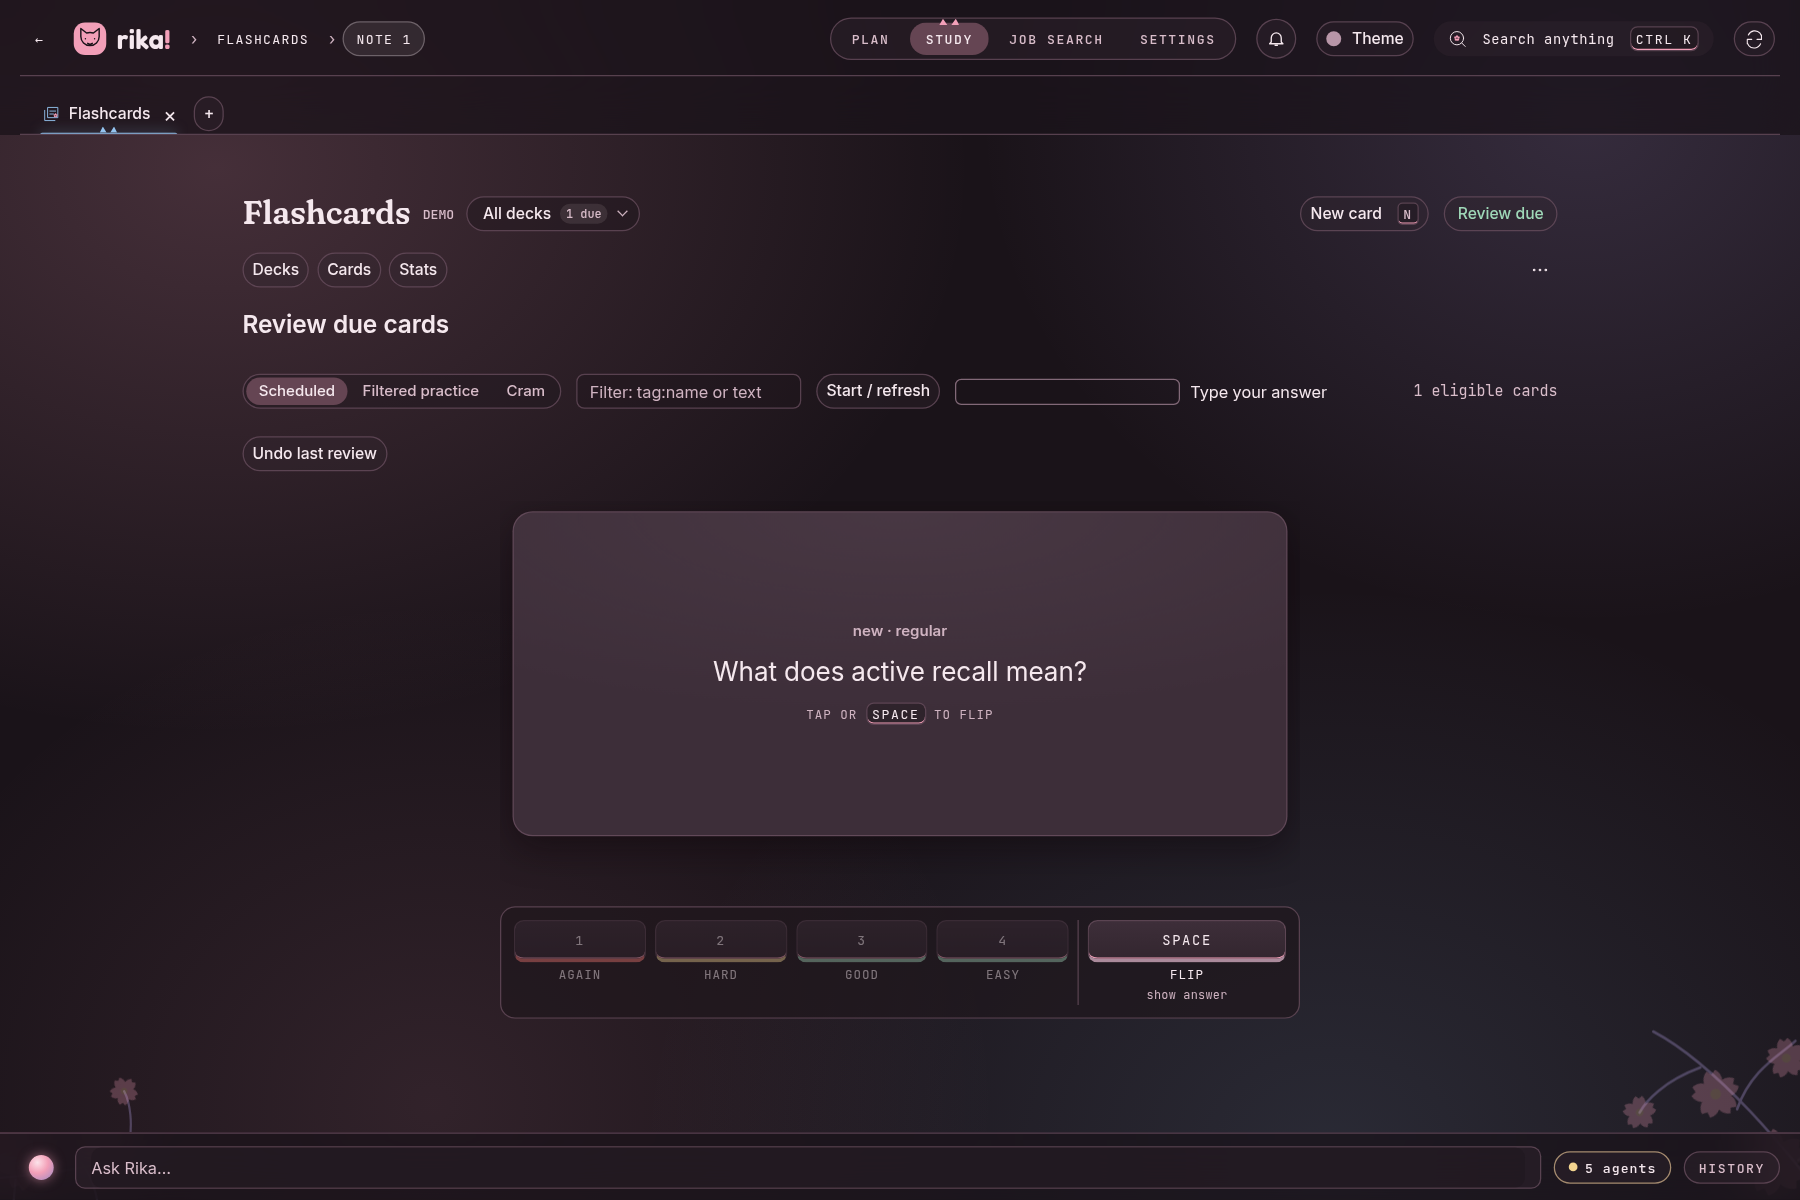
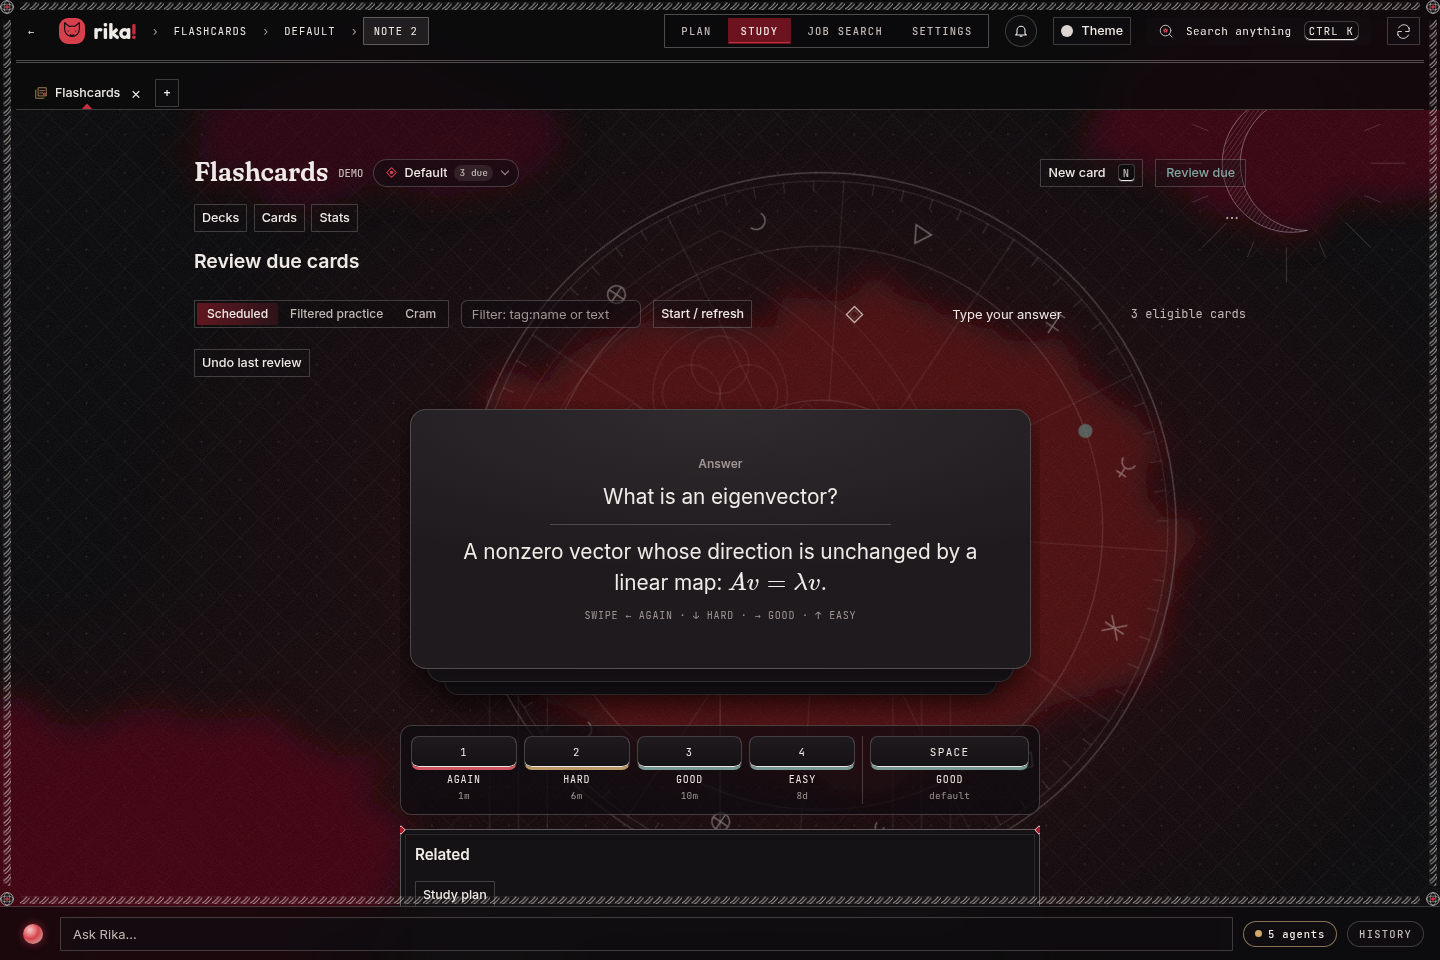
Expand v0.3.30 feature tour in the c theme

diff --git a/README.md b/README.md
@@ -8,28 +8,132 @@ Your workspace is stored separately from the application and retained across upd
 
 ## Screenshots
 
-These screenshots show rika! v0.3.30 and use synthetic sample data only.
+These screenshots show rika! v0.3.30 in the **c** theme and use synthetic sample data only.
 
-**Home:** the interactive workspace brain links every section, with a searchable section list and side widgets.
+**Welcome:** a short first-run screen; continue locally, or connect Google only if you want to.
+
+![rika! welcome screen](docs/screenshots/welcome.png)
+
+**Home:** the interactive workspace brain links every section, with a searchable section list and side widgets for today, quick notes, agents and what is up next.
 
 ![rika! home workspace brain](docs/screenshots/home.png)
 
-**Find jobs:** search, filter and sort job listings, then prepare selected applications for review.
+**Brain view:** change the brain's layout, grouping, labels, motion, background and section colours.
 
-![rika! Find jobs list](docs/screenshots/find-jobs.png)
+![rika! brain view settings](docs/screenshots/brain-view.png)
 
-**Notes:** notebook pages with block editing, canvas and map views, and `[[page]]` links.
+**2D map:** the same workspace as a flat map of every section and how they connect.
+
+![rika! 2D workspace map](docs/screenshots/home-2d.png)
+
+**Search anything:** Ctrl+K finds pages, jobs and commands, such as a new card, map or job.
+
+![rika! command palette](docs/screenshots/command-palette.png)
+
+**Rika:** rika!'s own assistant. Ask in the Rika bar, undo its changes, and follow coding agents in the history panel.
+
+![rika! Rika history and agents](docs/screenshots/rika-agents.png)
+
+**Calendar:** day, week, month, agenda, year and day-plan views, with natural-language quick add.
+
+![rika! Calendar week view](docs/screenshots/calendar.png)
+
+**Reminders:** follow-ups and reminders, with quick dates, snooze and delete.
+
+![rika! Reminders and follow-ups](docs/screenshots/reminders.png)
+
+**Study:** a focus timer with drawers for subjects and tasks, the current guide step and session notes.
+
+![rika! Study focus timer](docs/screenshots/study.png)
+
+**Study guide:** a fourteen-step guide for preparing, studying, and reviewing and returning to the material.
+
+![rika! Study guide](docs/screenshots/study-guide.png)
+
+**Exams & plans:** exam countdowns, planned study blocks on a timeline, and spaced returns.
+
+![rika! Exams and study plans](docs/screenshots/exams-plans.png)
+
+**Study progress:** study minutes by day and subject, a streak ring, a month calendar and goals.
+
+![rika! Study progress](docs/screenshots/study-progress.png)
+
+**Math topics:** a topic graph that shows what is locked, ready, being learned or mastered.
+
+![rika! Math topic graph](docs/screenshots/math-topics.png)
+
+**Math lessons:** a worked example, then guided steps, then problems on your own.
+
+![rika! Math lesson](docs/screenshots/math-lesson.png)
+
+**Math sprint:** timed mental-math runs inside a countdown ring.
+
+![rika! Math sprint](docs/screenshots/math-sprint.png)
+
+**Flashcards:** FSRS-scheduled review with typeset math; flip a card, then grade it by key or swipe.
+
+![rika! Flashcard review](docs/screenshots/flashcards.png)
+
+**Card browser:** filter cards and see each card's preview, memory state and recent reviews.
+
+![rika! Flashcard card browser](docs/screenshots/flashcard-cards.png)
+
+**Flashcard stats:** today's queue, a 30-day forecast, card maturity and a review heatmap.
+
+![rika! Flashcard statistics](docs/screenshots/flashcard-stats.png)
+
+**Notes:** notebook pages with block editing, an "On this page" outline, tags and `[[page]]` links.
 
 ![rika! Notes editor](docs/screenshots/notes.png)
+
+**Canvas:** draw on any page with pen, highlighter, text and sticky notes.
+
+![rika! Notes canvas](docs/screenshots/canvas.png)
 
 **Quick notes:** a board of tinted scratch notes that can be pinned or popped out.
 
 ![rika! Quick notes board](docs/screenshots/quick-notes.png)
 
-**Flashcards:** decks with scheduled review.
+**Mind maps:** start from a template, then build, recolour, connect and rearrange topics from the keyboard, mouse or pen.
 
-![rika! Flashcard review](docs/screenshots/flashcards.png)
+![rika! Mind map editor](docs/screenshots/mind-maps.png)
 
-**Themes:** pick a color theme from the toolbar; Tokyo Night is shown here.
+**Documents & PDF:** Markdown or rich text with a live preview; export a PDF or turn it into a note page.
 
-![rika! Theme picker](docs/screenshots/themes.png)
+![rika! Documents editor](docs/screenshots/documents.png)
+
+**Opportunities & projects:** a map and list of projects and opportunities, with filters and quick add.
+
+![rika! Opportunities map](docs/screenshots/opportunities.png)
+
+**Find jobs:** search, filter and sort job listings, then prepare selected applications for review.
+
+![rika! Find jobs list](docs/screenshots/find-jobs.png)
+
+**Jobs map:** jobs grouped by job type; open a group to see every matching job.
+
+![rika! Jobs map](docs/screenshots/jobs-map.png)
+
+**Applications:** a pipeline from applied to closed for each job type, with days since the last activity.
+
+![rika! Applications pipeline](docs/screenshots/applications.png)
+
+**Mail proposals:** read-only Gmail checks suggest status changes, and only your confirmation moves an application.
+
+![rika! Gmail status proposals](docs/screenshots/gmail-proposals.png)
+
+**AI settings:** your own OpenRouter key, model, routing and daily spending cap, with each request reviewed before it is sent.
+
+![rika! AI settings](docs/screenshots/ai-settings.png)
+
+**Quiet hours:** hold notifications overnight and get them together as a morning digest.
+
+![rika! Quiet hours](docs/screenshots/quiet-hours.png)
+
+**Modules:** turn on job search, the workspace and the terminal separately.
+
+![rika! Modules](docs/screenshots/modules.png)
+
+**Themes:** choose a style and colour theme in Settings → Appearance; c is shown here.
+
+![rika! Theme settings](docs/screenshots/themes.png)
